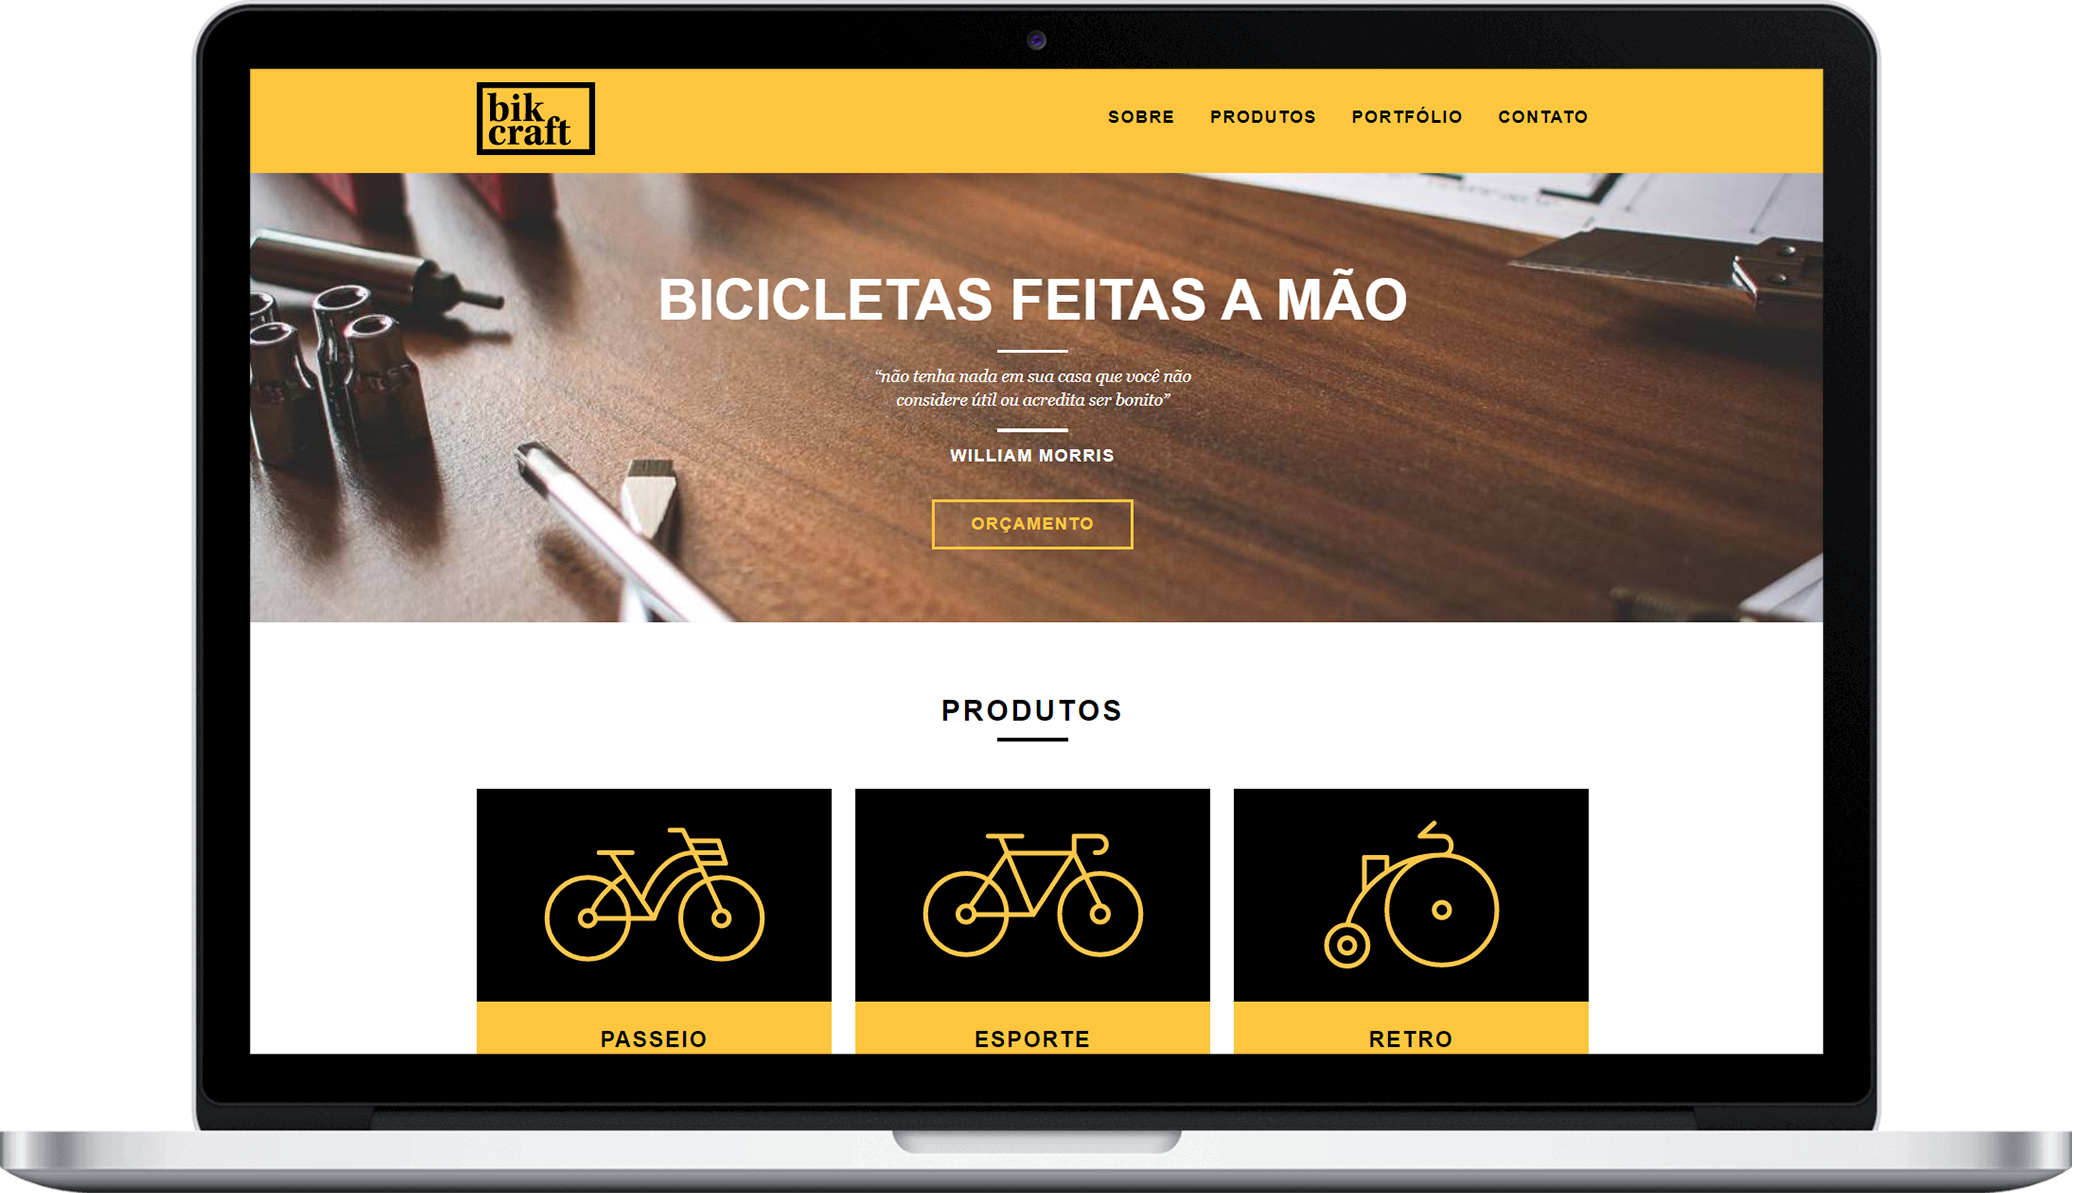
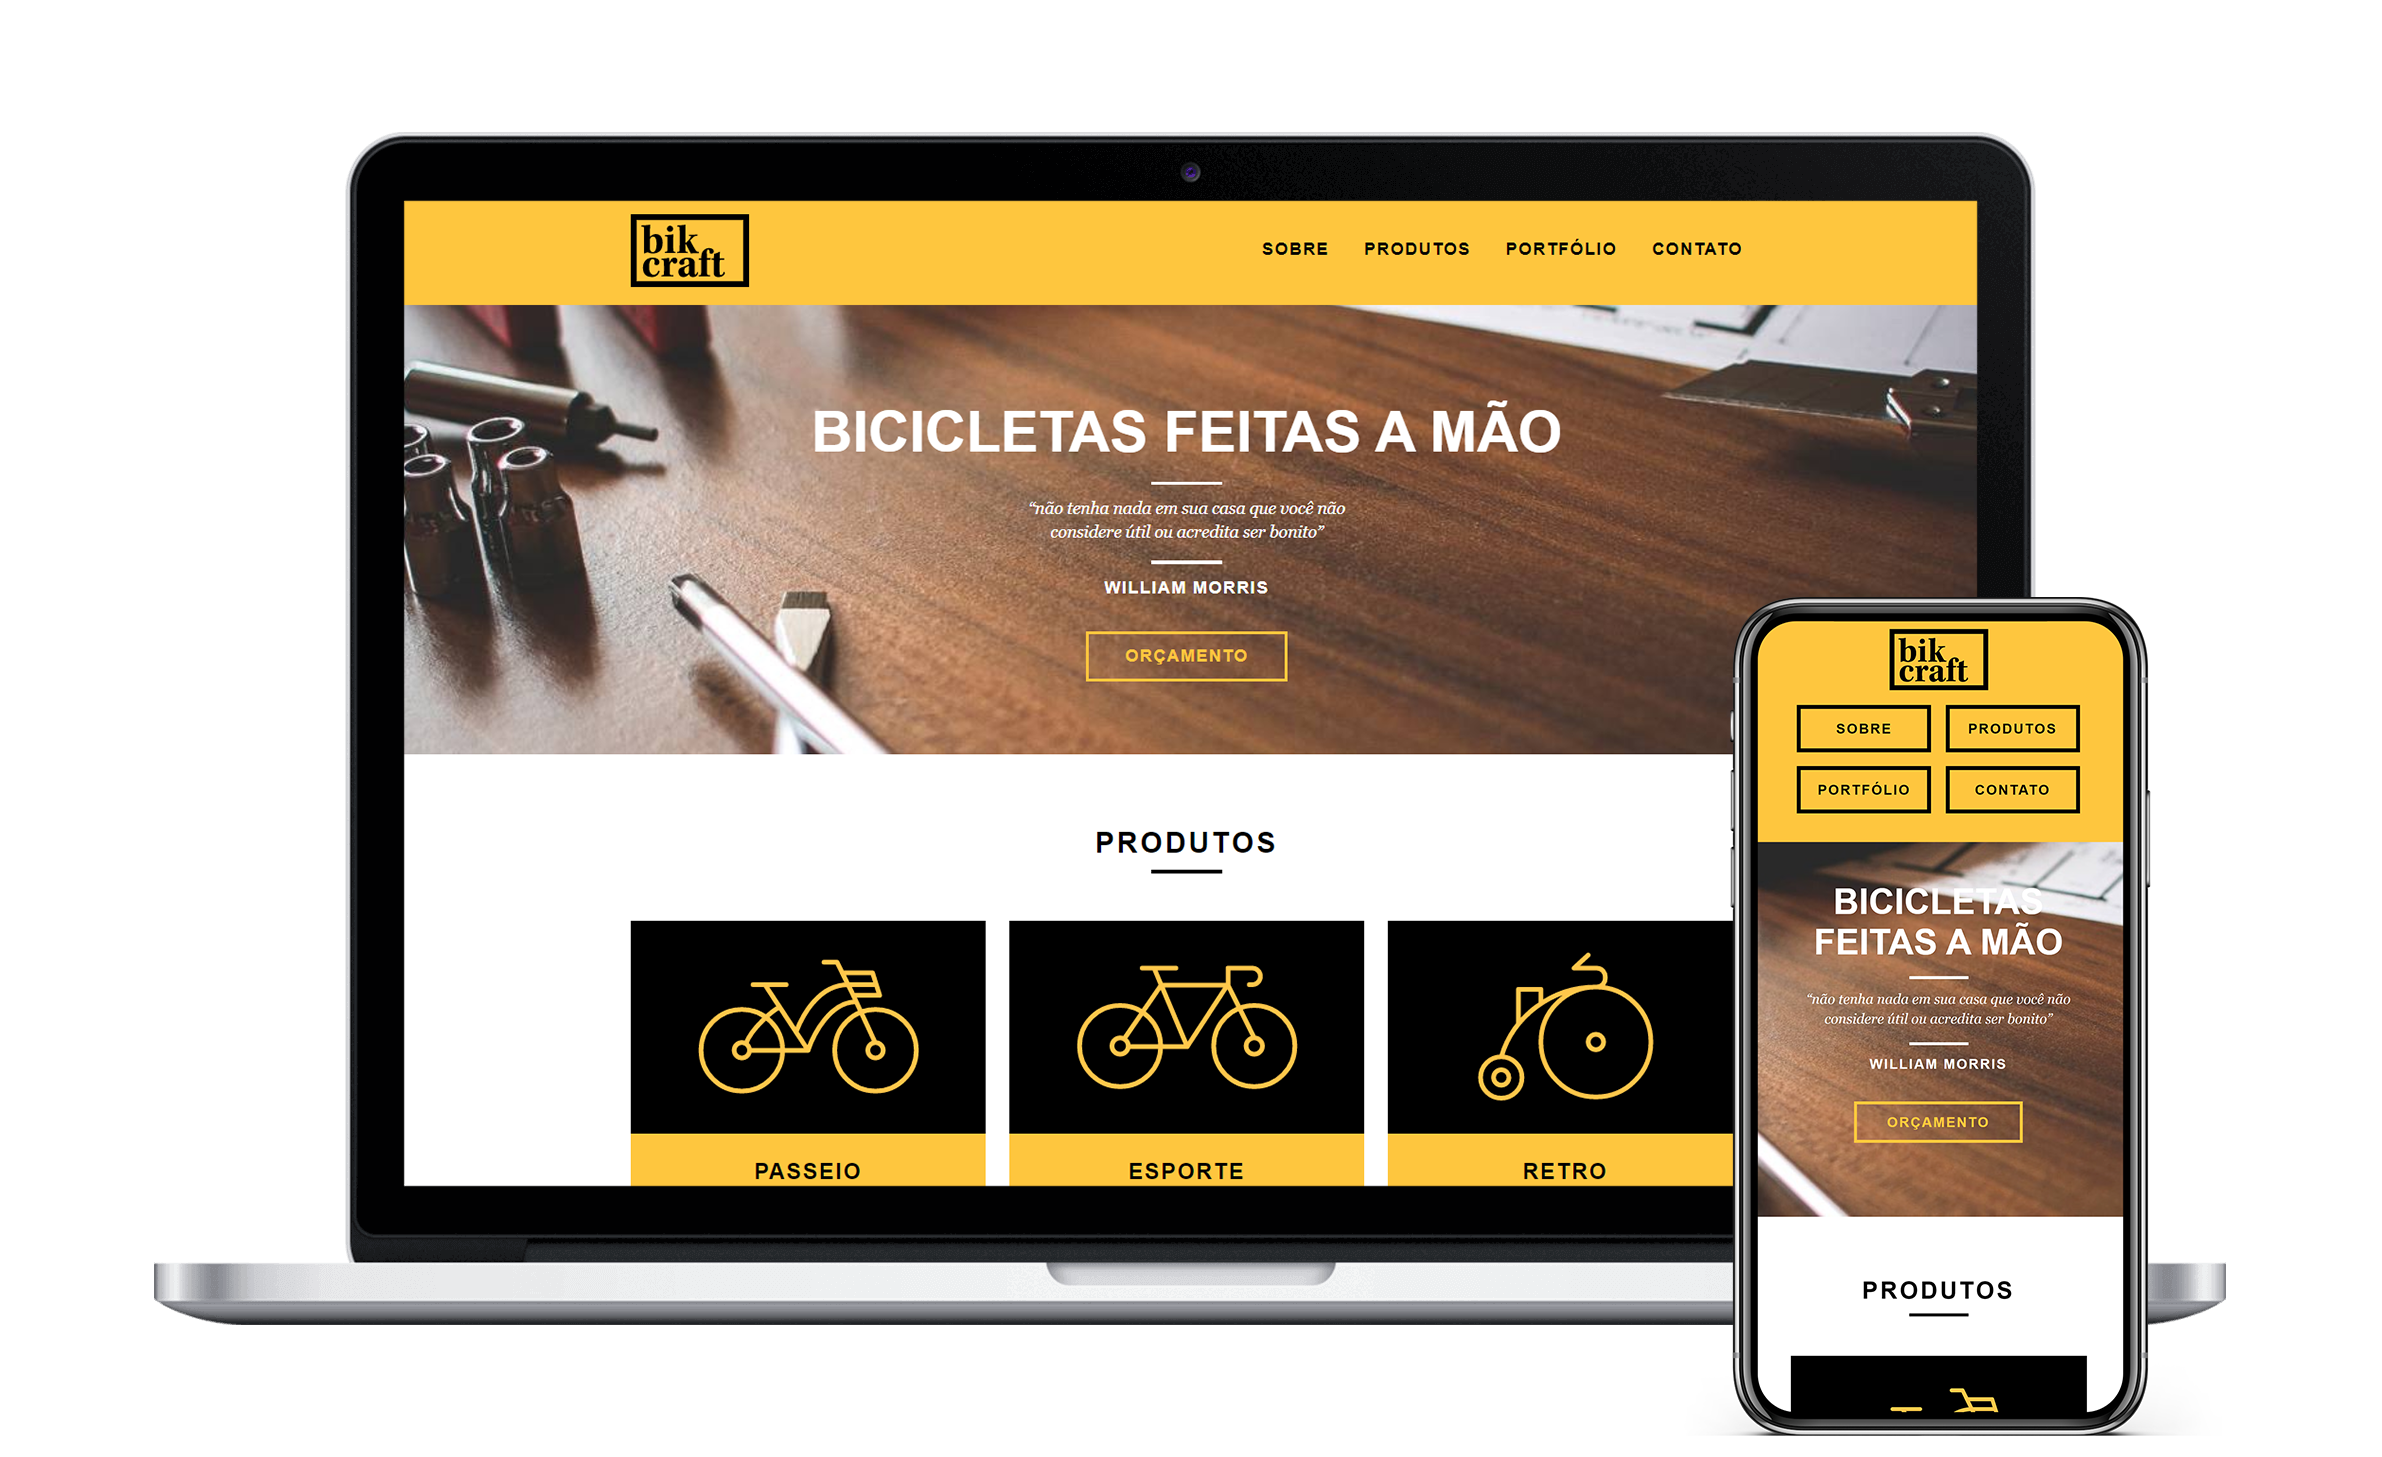
Update

diff --git a/README.md b/README.md
@@ -9,8 +9,7 @@
 </p>
 
 <div align="center">
-   <img src="./.github/desktop.png" width="700px">
-   <img src="./.github/mobile.png" width="400px">
+   <img src="./.github/desktop.png" width="1200px">
 </div>
 
 ## 🛠 Tecnologias
